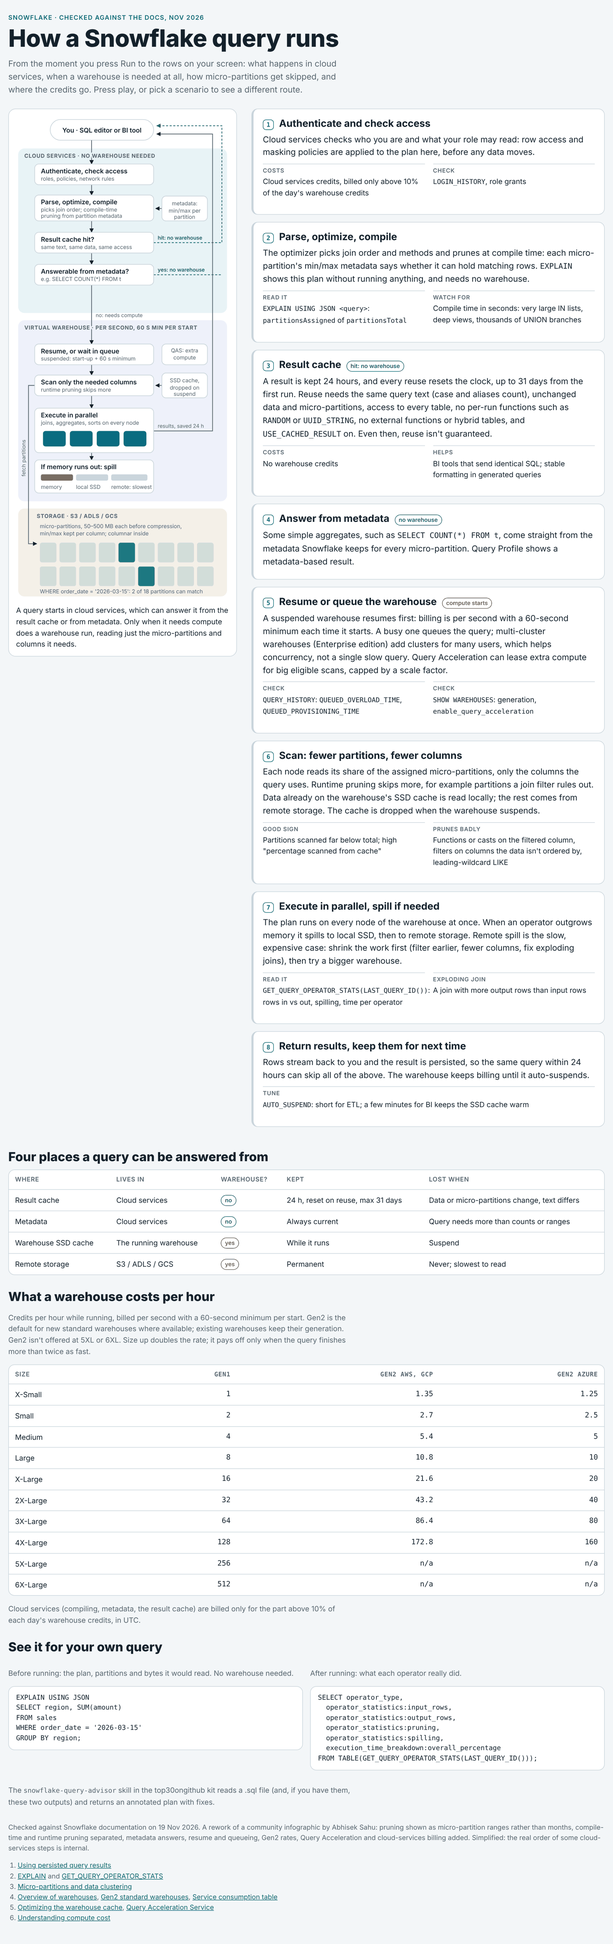
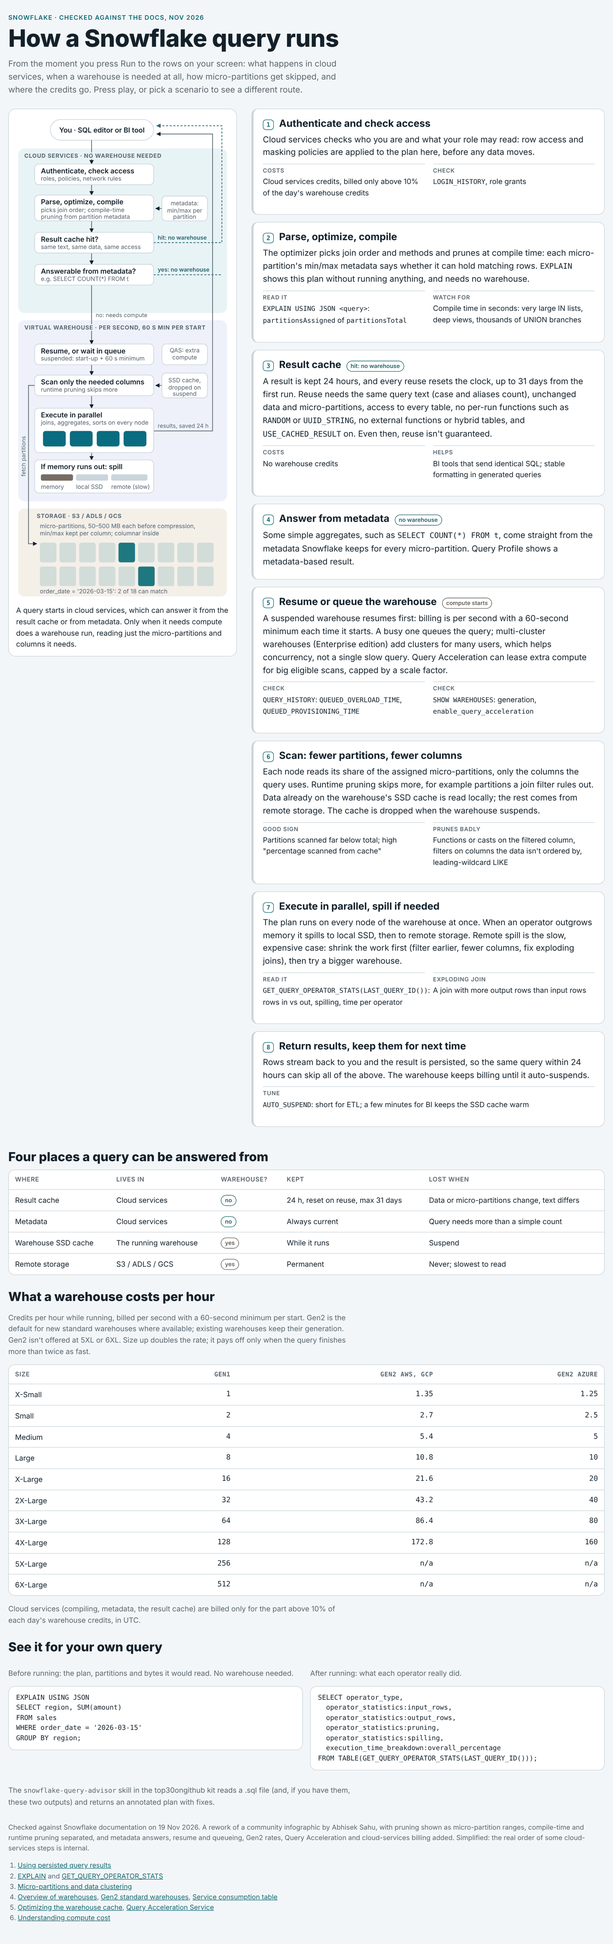
Snowflake explainer and query advisor fixes (top30-data 0.2.1)
Explainer: the warm-warehouse scenario keeps the same date and changes
the aggregate, so the SSD-cache hit is consistent; larger map text for
phones; metadata row says "simple count"; neutral comparison with the
community infographic. GIF, PNG and the published sample regenerated.

Advisor:
- Plans in files named <stem>_<k>.explain.json go to statement k, not
  to the next statement in order.
- EXPLAIN JSON is found in any CSV cell, whatever the header.
- A folder the user names (dbt target/compiled) is read; target,
  macros and packages are skipped only below it. `queries` asks for
  `dbt compile` output instead of EXPLAINing a template.
- Result-reuse notes match the docs: only RANDOM, UUID_STRING and
  RANDSTR are claimed; no claim about CURRENT_TIMESTAMP.
- Date-range rewrites cast to DATE explicitly and say they assume a
  DATE or TIMESTAMP column; ::date and DATE_TRUNC forms tested.
- SKILL.md: check SHOW WAREHOUSES before assuming Gen2 rates.

Claude-Session: https://claude.ai/code/session_01F5jUDP7SrKH9e5i3cfEVHD

diff --git a/guide/snowflake-query-execution/index.html b/guide/snowflake-query-execution/index.html
@@ -66,16 +66,16 @@ h1 { font: 800 clamp(30px, 6vw, 46px)/1.05 var(--font-display); margin: 0 0 12px
 .caption b { color: var(--accent); }
 svg.flow { display: block; width: 100%; height: auto; color: var(--ink); }
 svg.flow text { font-family: var(--font-body); fill: currentColor; }
-svg.flow .zone-label { font: 700 10.5px var(--font-body); letter-spacing: .06em; fill: var(--muted); paint-order: stroke; stroke-width: 5px; stroke-linejoin: round; }
+svg.flow .zone-label { font: 700 11px var(--font-body); letter-spacing: .06em; fill: var(--muted); paint-order: stroke; stroke-width: 5px; stroke-linejoin: round; }
 svg.flow .zl-cloud { stroke: var(--zone-cloud); } svg.flow .zl-wh { stroke: var(--zone-wh); } svg.flow .zl-store { stroke: var(--zone-store); }
 svg.flow .box { fill: var(--panel); stroke: var(--line); stroke-width: 1.2; transition: stroke .2s, fill .2s; }
 svg.flow .node.on .box { stroke: var(--accent); stroke-width: 2.4; fill: var(--accent-soft); }
 svg.flow .node.done .box { stroke: var(--accent); }
-svg.flow .t { font-size: 12.5px; font-weight: 600; }
-svg.flow .s { font-size: 10.5px; fill: var(--muted); }
+svg.flow .t { font-size: 13.5px; font-weight: 600; }
+svg.flow .s { font-size: 11.5px; fill: var(--muted); }
 svg.flow .edge { fill: none; stroke: var(--muted); stroke-width: 1.4; }
 svg.flow .edge.hit { stroke: var(--hit); stroke-dasharray: 4 3; }
-svg.flow .edge-label { font-size: 10px; fill: var(--muted); }
+svg.flow .edge-label { font-size: 11px; fill: var(--muted); }
 svg.flow .edge-label.hit { fill: var(--hit); font-weight: 600; }
 svg.flow .tile { fill: var(--accent); opacity: .85; transition: opacity .35s, fill .35s; }
 svg.flow .tile.pruned { opacity: .14; }
@@ -181,7 +181,7 @@ footer ol { padding-left: 18px; }
           <text class="zone-label zl-wh" x="20" y="416">VIRTUAL WAREHOUSE · PER SECOND, 60 S MIN PER START</text>
           <text class="zone-label zl-store" x="44" y="780">STORAGE · S3 / ADLS / GCS</text>
           <g class="node" id="n-auth"><rect class="box" x="40" y="96" width="230" height="40" rx="8"/><text class="t" x="52" y="114">Authenticate, check access</text><text class="s" x="52" y="128">roles, policies, network rules</text></g>
-          <g class="node" id="n-compile"><rect class="box" x="40" y="156" width="230" height="50" rx="8"/><text class="t" x="52" y="174">Parse, optimize, compile</text><text class="s" x="52" y="188">picks join order; compile-time</text><text class="s" x="52" y="200">pruning from partition metadata</text></g>
+          <g class="node" id="n-compile"><rect class="box" x="40" y="156" width="230" height="50" rx="8"/><text class="t" x="52" y="174">Parse, optimize, compile</text><text class="s" x="52" y="189">picks join order; compile-time</text><text class="s" x="52" y="202">pruning from partition metadata</text></g>
           <g class="node" id="n-meta-store"><rect class="box" x="286" y="158" width="88" height="48" rx="8"/><text class="s" x="330" y="176" text-anchor="middle">metadata:</text><text class="s" x="330" y="190" text-anchor="middle">min/max per</text><text class="s" x="330" y="202" text-anchor="middle">partition</text></g>
           <g class="node" id="n-rcache"><rect class="box" x="40" y="228" width="230" height="40" rx="8"/><text class="t" x="52" y="246">Result cache hit?</text><text class="s" x="52" y="260">same text, same data, same access</text></g>
           <g class="node" id="n-meta"><rect class="box" x="40" y="290" width="230" height="40" rx="8"/><text class="t" x="52" y="308">Answerable from metadata?</text><text class="s" x="52" y="322">e.g. SELECT COUNT(*) FROM t</text></g>
@@ -195,7 +195,7 @@ footer ol { padding-left: 18px; }
           </g>
           <g class="node" id="n-spill"><rect class="box" x="40" y="668" width="230" height="64" rx="8"/><text class="t" x="52" y="686">If memory runs out: spill</text>
             <rect class="spill" id="sp-mem" x="52" y="696" width="62" height="12" rx="3"/><rect class="spill" id="sp-loc" x="120" y="696" width="62" height="12" rx="3"/><rect class="spill remote" id="sp-rem" x="188" y="696" width="70" height="12" rx="3"/>
-            <text class="s" x="52" y="724">memory</text><text class="s" x="120" y="724">local SSD</text><text class="s" x="188" y="724">remote: slowest</text>
+            <text class="s" x="52" y="724">memory</text><text class="s" x="120" y="724">local SSD</text><text class="s" x="188" y="724">remote (slow)</text>
           </g>
 
           <g class="node" id="n-store">
@@ -259,7 +259,7 @@ footer ol { padding-left: 18px; }
     <thead><tr><th>Where</th><th>Lives in</th><th>Warehouse?</th><th>Kept</th><th>Lost when</th></tr></thead>
     <tbody>
       <tr><td>Result cache</td><td>Cloud services</td><td><span class="pill hit">no</span></td><td>24 h, reset on reuse, max 31 days</td><td>Data or micro-partitions change, text differs</td></tr>
-      <tr><td>Metadata</td><td>Cloud services</td><td><span class="pill hit">no</span></td><td>Always current</td><td>Query needs more than counts or ranges</td></tr>
+      <tr><td>Metadata</td><td>Cloud services</td><td><span class="pill hit">no</span></td><td>Always current</td><td>Query needs more than a simple count</td></tr>
       <tr><td>Warehouse SSD cache</td><td>The running warehouse</td><td><span class="pill miss">yes</span></td><td>While it runs</td><td>Suspend</td></tr>
       <tr><td>Remote storage</td><td>S3 / ADLS / GCS</td><td><span class="pill miss">yes</span></td><td>Permanent</td><td>Never; slowest to read</td></tr>
     </tbody>
@@ -294,7 +294,7 @@ FROM TABLE(GET_QUERY_OPERATOR_STATS(LAST_QUERY_ID()));</pre></div>
 </section>
 
 <footer>
-  <p>Checked against Snowflake documentation on 19 Nov 2026. A rework of a community infographic by Abhisek Sahu: pruning shown as micro-partition ranges rather than months, compile-time and runtime pruning separated, metadata answers, resume and queueing, Gen2 rates, Query Acceleration and cloud-services billing added. Simplified: the real order of some cloud-services steps is internal.</p>
+  <p>Checked against Snowflake documentation on 19 Nov 2026. A rework of a community infographic by Abhisek Sahu, with pruning shown as micro-partition ranges, compile-time and runtime pruning separated, and metadata answers, resume and queueing, Gen2 rates, Query Acceleration and cloud-services billing added. Simplified: the real order of some cloud-services steps is internal.</p>
   <ol>
     <li><a href="https://docs.snowflake.com/en/user-guide/querying-persisted-results">Using persisted query results</a></li>
     <li><a href="https://docs.snowflake.com/en/sql-reference/sql/explain">EXPLAIN</a> and <a href="https://docs.snowflake.com/en/sql-reference/functions/get_query_operator_stats">GET_QUERY_OPERATOR_STATS</a></li>
@@ -331,7 +331,7 @@ FROM TABLE(GET_QUERY_OPERATOR_STATS(LAST_QUERY_ID()));</pre></div>
   }
   const lbl = document.createElementNS(NS, 'text');
   lbl.setAttribute('class', 's'); lbl.setAttribute('x', 50); lbl.setAttribute('y', 926);
-  lbl.textContent = "WHERE order_date = '2026-03-15': 2 of 18 partitions can match";
+  lbl.textContent = "order_date = '2026-03-15': 2 of 18 can match";
   tilesG.appendChild(lbl);
   const MATCH = [4, 14]; // the partitions whose min/max range contains the date
 
@@ -371,13 +371,13 @@ FROM TABLE(GET_QUERY_OPERATOR_STATS(LAST_QUERY_ID()));</pre></div>
       { at: 'hitM', node: 'n-meta' }, { at: 'hitTop', node: 'n-client', card: 's-meta', say: '<b>No warehouse needed.</b> Query Profile shows a metadata-based result.' },
     ],
     warm: [
-      { at: 'client', node: 'n-client', say: '<b>Warm warehouse,</b> a new date: <span class="mono">WHERE order_date = \'2026-03-16\'</span>.' },
+      { at: 'client', node: 'n-client', say: '<b>Warm warehouse,</b> a different question about the same day: <span class="mono">SELECT region, AVG(amount) … WHERE order_date = \'2026-03-15\'</span>.' },
       { at: 'auth', node: 'n-auth', card: 's-auth' },
       { at: 'compile', node: 'n-compile', card: 's-compile', act: 'prune1' },
       { at: 'rcache', node: 'n-rcache', card: 's-rcache', say: '<b>Result cache: miss.</b> The text changed, so the old result can\'t be reused.' },
       { at: 'meta', node: 'n-meta', card: 's-meta' },
       { at: 'resume', node: 'n-resume', card: 's-resume', say: '<b>Already running:</b> no start-up, no new 60-second minimum.' },
-      { at: 'scan', node: 'n-scan', card: 's-scan', act: 'ssd', say: '<b>SSD cache hit.</b> Those partitions were read a minute ago, so they come from local disk, not remote storage.' },
+      { at: 'scan', node: 'n-scan', card: 's-scan', act: 'ssd', say: '<b>SSD cache hit.</b> The same partitions and columns were read a minute ago, so they come from local disk, not remote storage.' },
       { at: 'exec', node: 'n-exec', card: 's-exec', act: 'cpu' },
       { at: 'out', node: 'n-client', card: 's-return' },
       { at: 'top', node: 'n-client', card: 's-return', say: '<b>Faster and cheaper</b> than the first run: same compute, less waiting on storage.' },

diff --git a/plugins/top30-data/skills/snowflake-query-advisor/scripts/sf_query_advisor.py b/plugins/top30-data/skills/snowflake-query-advisor/scripts/sf_query_advisor.py
@@ -44,7 +44,7 @@ SIZE_ALIASES = {"XSMALL": "XS", "X-SMALL": "XS", "SMALL": "S", "MEDIUM": "M", "L
                 "XXLARGE": "2XL", "X2LARGE": "2XL", "2X-LARGE": "2XL", "XXXLARGE": "3XL", "X3LARGE": "3XL", "3X-LARGE": "3XL",
                 "X4LARGE": "4XL", "4X-LARGE": "4XL", "X5LARGE": "5XL", "5X-LARGE": "5XL", "X6LARGE": "6XL", "6X-LARGE": "6XL"}
 GEN2_FACTOR = {"aws": 1.35, "gcp": 1.35, "azure": 1.25}
-NONDETERMINISTIC = {"RANDOM", "UUID_STRING", "RANDSTR", "SEQ1", "SEQ2", "SEQ4", "SEQ8"}
+NONDETERMINISTIC = {"RANDOM", "UUID_STRING", "RANDSTR"}  # the examples Snowflake's result-reuse docs give
 TIME_NOW = {"CURRENT_TIMESTAMP", "SYSDATE", "GETDATE", "LOCALTIMESTAMP", "CURRENT_TIME", "SYSTIMESTAMP"}
 GB = 1024 ** 3
 
@@ -221,14 +221,14 @@ def load_explain(path):
             continue
         break
     if data is None:
-        # a CSV export whose single cell holds the JSON
+        # a CSV export (any header) with the JSON in one of its cells
         try:
-            cells = next(csv.reader(io.StringIO(raw.split("\n", 1)[-1] if raw.lower().startswith(("\"explain", "explain", "system$")) else raw)))
-            for cell in cells:
-                if cell.strip().startswith("{"):
+            for row in csv.reader(io.StringIO(raw)):
+                cell = next((c for c in row if c.strip().startswith("{") and "Operations" in c), None)
+                if cell:
                     data = json.loads(cell)
                     break
-        except (StopIteration, json.JSONDecodeError, csv.Error):
+        except (json.JSONDecodeError, csv.Error):
             data = None
     if isinstance(data, list) and data and isinstance(data[0], dict) and any(k.upper().startswith("SYSTEM$EXPLAIN") or k.upper() == "EXPLAIN" for k in data[0]):
         data = json.loads(next(iter(data[0].values())))
@@ -628,17 +628,18 @@ def rewrite_date_filter(cmp):
     if col is None:
         return None
     c, v = col.sql(dialect="snowflake"), right.sql(dialect="snowflake")
+    d = v if not (isinstance(right, exp.Literal) and right.is_string) else f"{v}::DATE"
     name = left.sql_name().upper() if isinstance(left, exp.Func) else ""
     if isinstance(left, exp.Cast) and left.to.is_type("date") or isinstance(left, (exp.TsOrDsToDate, exp.Date)) or name in DATE_FUNCS:
-        return f"{c} >= {v} AND {c} < DATEADD(day, 1, {v})"
+        return f"{c} >= {d} AND {c} < DATEADD(day, 1, {d})"
     if isinstance(left, exp.Year) or name == "YEAR":
         if right.is_int:
             y = int(right.name)
-            return f"{c} >= '{y}-01-01' AND {c} < '{y + 1}-01-01'"
+            return f"{c} >= '{y}-01-01'::DATE AND {c} < '{y + 1}-01-01'::DATE"
     if isinstance(left, (exp.DateTrunc, exp.TimestampTrunc)) or name in ("DATE_TRUNC", "TRUNC"):
         unit = left.args.get("unit")
         u = (unit.name if unit is not None else "").lower().strip("'") or "day"
-        return f"{c} >= {v} AND {c} < DATEADD({u}, 1, {v})"
+        return f"{c} >= {d} AND {c} < DATEADD({u}, 1, {d})"
     return None
 
 
@@ -746,7 +747,7 @@ def rule_findings(stmt, base, text, tables_info):
                              f"{snippet(subject, 50)} wraps the filtered column",
                              "Pruning compares the filter with each micro-partition's min/max for the column. Wrapping the column in a function or cast "
                              "can stop Snowflake from using those ranges, so more partitions are scanned.",
-                             "Compare the raw column with a range of constants instead" + (":" if rw else "; put any function on the constant side."),
+                             "Compare the raw column with a range of constants instead" + (" (this rewrite assumes the column is a DATE or TIMESTAMP):" if rw else "; put any function on the constant side."),
                              snippet(cmp, 80), "pruning", rewrite=rw))
             # R3 leading wildcard
             for lk in p.find_all(exp.Like, exp.ILike):
@@ -886,8 +887,8 @@ def rule_findings(stmt, base, text, tables_info):
         elif name in TIME_NOW and name not in seen and isinstance(stmt, (exp.Select, exp.Union)):
             seen.add(name)
             out.append(F("current-time-reuse", "info", line_of(f, base), f"{name} changes on every run",
-                         "Its value is different each time, so the result cache is unlikely to help this query.",
-                         "For dashboards refreshed often, filter on CURRENT_DATE() or a parameter so identical runs can be reused.", name, "cache"))
+                         "Snowflake's docs don't say whether results of queries using it are reused, so don't count on the result cache here.",
+                         "Nothing to change unless repeated runs of this query matter; then measure whether they're served from the cache.", name, "cache"))
     # R17 the same subquery written twice
     by_text = defaultdict(list)
     for sq in stmt.find_all(exp.Subquery):
@@ -1096,7 +1097,9 @@ def analyze_file(path, a, explains, stats_rows, hist_rows, tables_info):
     text, jinja = strip_jinja(raw)
     stmts = split_statements(text)
     results = []
-    exp_iter = iter(explains)
+    # files named like <stem>_<k>.explain.json (as `queries` suggests) go to statement k; others in order
+    numbered = {p["n"]: p for p in explains if p.get("n")}
+    exp_iter = iter([p for p in explains if not p.get("n")])
     for k, (sql, line) in enumerate(stmts, 1):
         r = {"file": str(path), "n": k, "line": line, "end": line + sql.count("\n"), "kind": None, "parsed": False, "plan": None,
              "plan_source": "estimated from the SQL", "findings": [], "error": None, "sql": sql}
@@ -1122,7 +1125,7 @@ def analyze_file(path, a, explains, stats_rows, hist_rows, tables_info):
             r["findings"] = text_findings(sql, line)
             r["tables"] = []
         if r["parsed"] and r["plan"] and r["kind"] in ("Select", "Union", "Insert", "Create Table", "Create View", "Merge", "Update", "Delete", "Intersect", "Except", "Subquery"):
-            ep = next(exp_iter, None)
+            ep = numbered.get(k) if numbered else next(exp_iter, None)
             if ep is not None:
                 r["plan"] = render_explain(ep)
                 g = ep["global"] or {}
@@ -1259,7 +1262,8 @@ def collect(paths):
     files = []
     for p in map(Path, paths):
         if p.is_dir():
-            files += sorted(f for f in p.rglob("*.sql") if f.is_file() and not ({"target", "dbt_packages", "node_modules", ".git", "macros"} & set(f.parts)))
+            files += sorted(f for f in p.rglob("*.sql") if f.is_file()
+                            and not ({"target", "dbt_packages", "node_modules", ".git", "macros"} & set(f.relative_to(p).parts[:-1])))
         elif p.is_file():
             files.append(p)
         else:
@@ -1268,7 +1272,12 @@ def collect(paths):
 
 
 def cmd_analyze(a):
-    explains = [load_explain(p) for p in (a.explain or [])]
+    explains = []
+    for p in a.explain or []:
+        plan = load_explain(p)
+        m = re.search(r"_(\d+)\.explain\.(?:json|csv|tsv|txt)$", str(p))
+        plan["n"] = int(m.group(1)) if m else None
+        explains.append(plan)
     stats = read_rows(a.stats) if a.stats else []
     hist = read_rows(a.history) if a.history else []
     tables = load_tables(a.tables)
@@ -1300,7 +1309,11 @@ def cmd_queries(a):
            "-- EXPLAIN compiles without executing (no warehouse needed). Save each result as JSON or CSV.", ""]
     tables = set()
     for f in collect(a.paths):
-        text, _ = strip_jinja(Path(f).read_text(encoding="utf-8", errors="replace"))
+        text, jinja = strip_jinja(Path(f).read_text(encoding="utf-8", errors="replace"))
+        if jinja:
+            out.append(f"-- {f}: dbt/Jinja template. Run `dbt compile`, then pass the compiled file from target/compiled/ to `queries`.")
+            out.append("")
+            continue
         for k, (sql, line) in enumerate(split_statements(text), 1):
             try:
                 stmt = sqlglot.parse_one(sql, read="snowflake")

diff --git a/tests/sf_query_advisor/test_sf_query_advisor.py b/tests/sf_query_advisor/test_sf_query_advisor.py
@@ -4,6 +4,7 @@ the formats in Snowflake's documentation; they were not exported from a live acc
 
 python3 tests/sf_query_advisor/test_sf_query_advisor.py   (needs sqlglot; no network)
 """
+import csv
 import json
 import subprocess
 import sys
@@ -51,9 +52,13 @@ def rules(sql, **kw):
 r = rules("select * from db.s.orders where to_date(order_ts) = '2026-03-15'")
 check(r["select-star"] == 1 and r["function-on-filter-column"] == 1, f"star + function filter: {r}")
 f = [x for x in run_sql("select a from t where to_date(ts) = '2026-03-15'")[0]["findings"] if x["rule"] == "function-on-filter-column"][0]
-check(f["rewrite"] == "ts >= '2026-03-15' AND ts < DATEADD(day, 1, '2026-03-15')", f"date rewrite: {f.get('rewrite')}")
+check(f["rewrite"] == "ts >= '2026-03-15'::DATE AND ts < DATEADD(day, 1, '2026-03-15'::DATE)", f"date rewrite: {f.get('rewrite')}")
+for sql, want in [("select a from t where ts::date = '2026-03-15'", "ts >= '2026-03-15'::DATE AND ts < DATEADD(day, 1, '2026-03-15'::DATE)"),
+                  ("select a from t where date_trunc('month', ts) = '2026-03-01'", "ts >= '2026-03-01'::DATE AND ts < DATEADD(month, 1, '2026-03-01'::DATE)")]:
+    got = [x for x in run_sql(sql)[0]["findings"] if x["rule"] == "function-on-filter-column"][0].get("rewrite")
+    check(got == want, f"rewrite for {sql}: {got}")
 f = [x for x in run_sql("select a from t where year(d) = 2026")[0]["findings"] if x["rule"] == "function-on-filter-column"][0]
-check(f["rewrite"] == "d >= '2026-01-01' AND d < '2027-01-01'", f"year rewrite: {f.get('rewrite')}")
+check(f["rewrite"] == "d >= '2026-01-01'::DATE AND d < '2027-01-01'::DATE", f"year rewrite: {f.get('rewrite')}")
 check(rules("select a from t, u")["cartesian-join"] == 1, "comma join with no condition is cartesian")
 check(rules("select a from t where id not in (select id from u)")["not-in-subquery"] == 1, "NOT IN subquery")
 check(rules("select a from t join u on t.a < u.b")["non-equi-join"] == 1, "non-equi join")
@@ -111,6 +116,27 @@ with tempfile.TemporaryDirectory() as d:
                    "1,1,[0],TableScan,TESTDB.DOC.Z1,NULL,ID,2,2,1024\n")
     tp = sfa.load_explain(tab)
     check(tp["global"]["partitionsTotal"] == 2 and tp["ops"][1]["parents"] == [0], "TABULAR export loads")
+    cellcsv = Path(d) / "snowsight.csv"  # a one-cell export with whatever header Snowsight gives the column
+    with cellcsv.open("w", newline="") as fh:
+        w = csv.writer(fh)
+        w.writerow(["SOME HEADER"])
+        w.writerow([(FIX / "explain_orders.json").read_text()])
+    check(len(sfa.load_explain(cellcsv)["ops"]) == 9, "JSON in a CSV cell loads, whatever the header")
+    # statement numbers in file names route plans: a plan for statement 2 must not attach to statement 1
+    two = Path(d) / "two.sql"
+    two.write_text("select a from t;\n" + (FIX / "orders_report.sql").read_text())
+    named = Path(d) / "two_2.explain.json"
+    named.write_text((FIX / "explain_orders.json").read_text())
+    r2 = subprocess.run([sys.executable, str(SCRIPT), "analyze", str(two), "--explain", str(named), "--json", str(Path(d) / "two.json")],
+                        capture_output=True, text=True)
+    st = json.loads((Path(d) / "two.json").read_text())[0]["statements"]
+    check(st[0]["plan_source"].startswith("estimated") and st[1]["plan_source"].startswith("from EXPLAIN"), f"plan routed by number: {[s['plan_source'][:20] for s in st]}")
+    # files under a folder the user names explicitly (dbt's target/compiled) are read
+    comp = Path(d) / "target" / "compiled"
+    comp.mkdir(parents=True)
+    (comp / "m.sql").write_text("select a from t")
+    check(sfa.collect([comp]) == [comp / "m.sql"], "target/compiled is read when passed directly")
+    check(sfa.collect([Path(d)]) and all("target" not in p.parts for p in sfa.collect([Path(d)])), "target is skipped when scanning a project")
 
 stats = sfa.read_rows(FIX / "operator_stats.csv")
 hist = sfa.read_rows(FIX / "history.csv")
@@ -148,6 +174,9 @@ r = subprocess.run([sys.executable, str(SCRIPT), "analyze", str(FIX / "orders_re
                     "--fail-on", "high"], capture_output=True, text=True)
 check(r.returncode == 1 and "from EXPLAIN: 45,870 of 48,210 partitions" in r.stdout and "Measured run 01b2-demo" in r.stdout, r.stdout[-400:] + r.stderr)
 r = subprocess.run([sys.executable, str(SCRIPT), "queries", str(FIX / "orders_report.sql")], capture_output=True, text=True)
+r3 = subprocess.run([sys.executable, str(SCRIPT), "queries", str(FIX / "dbt_model.sql")], capture_output=True, text=True)
+check("dbt compile" in r3.stdout and "__jinja__" not in r3.stdout, "queries asks for compiled SQL for a dbt model")
+check(rules("select seq4() from t")["no-result-reuse"] == 0, "SEQ functions aren't claimed to block reuse")
 check(r.returncode == 0 and "EXPLAIN USING JSON\n-- Daily revenue" in r.stdout and "NOT IN (SELECT status" in r.stdout
       and "table_name = 'ORDERS' AND table_schema = 'SALES'" in r.stdout, "queries keeps the user's SQL and lists tables")
 with tempfile.TemporaryDirectory() as d:

diff --git a/guide/snowflake-query-execution/README.md b/guide/snowflake-query-execution/README.md
@@ -17,26 +17,24 @@ micro-partition pruning, parallel execution and spilling, and what each step cos
 
 ## What changed from the community infographic
 
-A rework of a community infographic by Abhisek Sahu, checked against Snowflake's documentation
-on 19 Nov 2026. The checked facts and their sources are in
+A rework of a community infographic by Abhisek Sahu, which is a good one-page summary. Some of
+what follows it simplified on purpose. Checked against Snowflake's documentation on 19 Nov 2026;
+the facts and their sources are in
 [`plugins/top30-data/skills/snowflake-query-advisor/references/execution-facts.md`](../../plugins/top30-data/skills/snowflake-query-advisor/references/execution-facts.md).
 
-1. **Pruning.** The original draws it as monthly buckets. Micro-partitions are 50-500 MB units,
-   skipped by their per-column min/max ranges, so how well pruning works depends on clustering.
-2. **Two pruning passes.** Compile-time pruning happens in cloud services: `EXPLAIN` shows it
-   without a warehouse. Runtime pruning, such as join filters, happens again in the warehouse.
-3. **Metadata-only answers.** Missing from the original. `SELECT COUNT(*)` and similar queries
-   skip the warehouse.
-4. **Result cache conditions.** The original keeps only "same text, unchanged data". Reuse also
-   needs privileges on every table, no per-run functions (RANDOM, UUID_STRING), no external
-   functions and no hybrid tables. Even then, reuse isn't guaranteed.
-5. **Gen2 pricing.** The original lists only Gen1. Gen2 is the default for new warehouses and
-   costs 1.35x (AWS, GCP) or 1.25x (Azure) per hour. It isn't offered at 5XL or 6XL.
-6. **Cloud services billing.** Missing from the original. It's billed only above 10% of each
-   day's warehouse credits.
-7. **Resume and queueing.** Missing from the original. A suspended warehouse adds start-up time
-   and a 60-second minimum; a busy one makes the query wait.
-8. **Query Acceleration Service.** Missing from the original, along with its scale-factor cost cap.
-9. **The pruning example.** Its text was garbled (`order_date =^ prime 2026-3-15`).
+1. **Pruning.** Shown by micro-partition min/max ranges (50-500 MB units) rather than monthly
+   buckets, so you can see why clustering decides how much gets skipped.
+2. **Two pruning passes.** Compile time in cloud services (`EXPLAIN` shows it without a
+   warehouse), then runtime pruning such as join filters in the warehouse.
+3. **Metadata-only answers.** `SELECT COUNT(*)` and similar queries skip the warehouse.
+4. **The full result-reuse conditions.** Privileges on every table, no per-run functions such as
+   RANDOM or UUID_STRING, no external functions, no hybrid tables. Even then, reuse is never
+   guaranteed.
+5. **Gen2.** It's the default for new warehouses and costs 1.35x (AWS, GCP) or 1.25x (Azure) per
+   hour. It isn't offered at 5XL or 6XL.
+6. **Cloud services billing.** Billed only above 10% of each day's warehouse credits.
+7. **Resume and queueing.** A suspended warehouse adds start-up time and a 60-second minimum; a
+   busy one makes the query wait.
+8. **Query Acceleration Service.** Added, with its scale-factor cost cap.
 
 To review a query of your own, use the `snowflake-query-advisor` skill in the `top30-data` plugin.

diff --git a/plugins/top30-data/skills/snowflake-query-advisor/references/execution-facts.md b/plugins/top30-data/skills/snowflake-query-advisor/references/execution-facts.md
@@ -84,20 +84,19 @@ Where sources disagreed or only blogs said it, the wording is hedged and marked.
   Joins with output_rows > input_rows can mean an exploding join.
   https://docs.snowflake.com/en/sql-reference/functions/get_query_operator_stats
 
-## What the community infographic (Abhisek Sahu) got wrong or left out
+## What the explainer adds to the community infographic (Abhisek Sahu)
 
-1. Pruning drawn as monthly buckets: micro-partitions are 50-500 MB units and prune by min/max
-   ranges; good pruning depends on clustering, not on a calendar.
-2. Compile-time pruning happens in cloud services (EXPLAIN shows it without a warehouse);
-   runtime pruning happens again in the warehouse. The original shows one pruning step.
-3. Metadata-only answers (COUNT(*) and similar) are missing: they skip the warehouse.
-4. Result-cache conditions are cut to "same text, unchanged data": privileges, nondeterministic
-   functions, external functions, hybrid tables and settings also matter, and reuse is never
-   guaranteed.
-5. Warehouse sizes list only Gen1. Gen2 (now the default for new warehouses) costs 1.35x (AWS,
-   GCP) or 1.25x (Azure) per hour and stops at 4XL.
-6. Cloud services billing (only above 10% of daily warehouse credits) is missing.
-7. Resume and queueing are missing: a suspended warehouse adds startup time and a 60-second
-   minimum; a busy one queues the query.
-8. Query Acceleration Service and its cost cap are missing.
-9. The pruning example text is garbled (`order_date =^ prime 2026-3-15`).
+The original is a good one-page summary; some of what follows it simplified on purpose.
+
+1. Pruning by micro-partition min/max ranges (50-500 MB units) rather than monthly buckets, so the
+   role of clustering shows.
+2. Two pruning passes: compile time in cloud services (EXPLAIN shows it without a warehouse) and
+   runtime in the warehouse.
+3. Metadata-only answers (COUNT(*) and similar) that skip the warehouse.
+4. The full result-reuse conditions: privileges, per-run functions, external functions, hybrid
+   tables, settings; and that reuse is never guaranteed.
+5. Gen2 rates (1.35x on AWS and GCP, 1.25x on Azure), the Gen2 default for new warehouses, and no
+   Gen2 at 5XL/6XL.
+6. Cloud services billing above 10% of daily warehouse credits.
+7. Warehouse resume (start-up, 60-second minimum) and queueing.
+8. Query Acceleration Service and its scale-factor cap.

diff --git a/plugins/top30-data/skills/snowflake-query-advisor/SKILL.md b/plugins/top30-data/skills/snowflake-query-advisor/SKILL.md
@@ -66,7 +66,9 @@ $Q analyze query.sql --explain query_1.explain.json --tables tables.csv \
 EXPLAIN accepts the JSON, a JSON string pasted from a cell, or a CSV of `EXPLAIN USING TABULAR`.
 With history it estimates credits per run: the warehouse rate times the execution time. Say it's
 an estimate, since a warehouse runs other queries too. Ask for their credit price and generation;
-if they don't know, use the defaults ($3.00, Gen2 AWS) and say so.
+if they don't know, use the defaults ($3.00, Gen2 AWS) and say so. Existing warehouses keep
+Gen1 unless someone changed them, so ask them to check `SHOW WAREHOUSES` and pass
+`--generation 1` if so: the Gen2 default overstates their cost.
 
 ## 3. Write the answer
 
